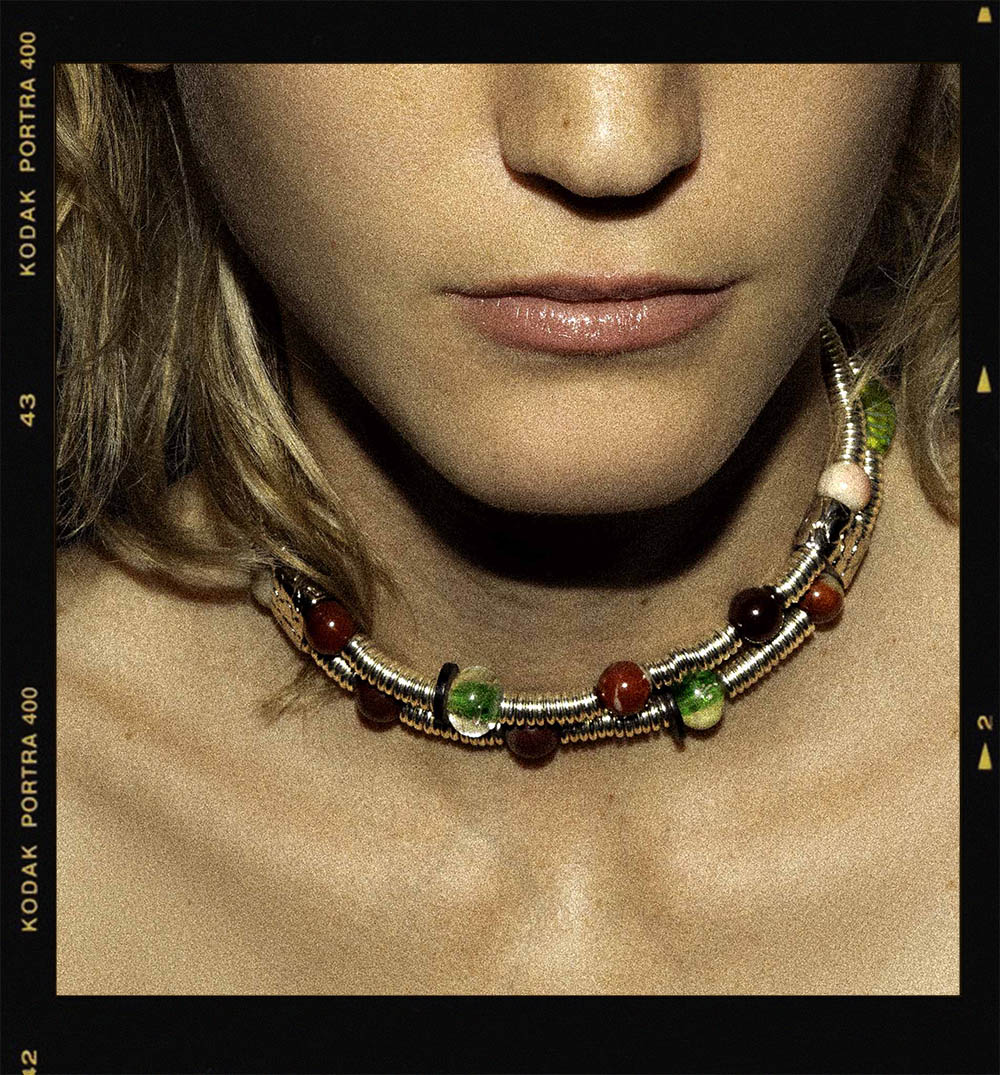
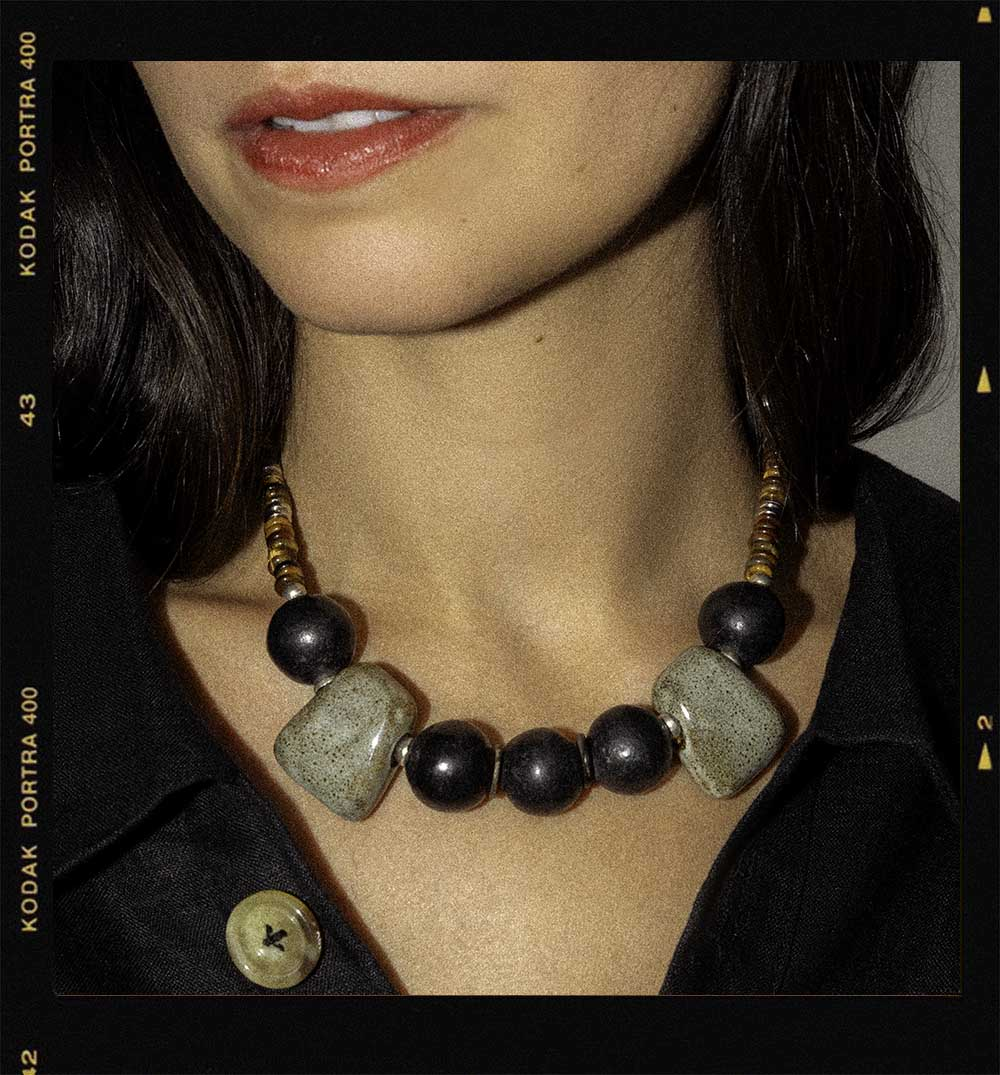
checkout: state select (MX/US); ui: polaroid scrollbar styles

diff --git a/components/category-grid.tsx b/components/category-grid.tsx
@@ -57,8 +57,9 @@ export function CategoryGrid() {
         const desiredTopMargin = marqueeHeight > 0 ? marqueeHeight + 60 : 140
         setContainerMarginTop(desiredTopMargin + manualOffset)
       } else {
-        const desiredTopMarginMobile = marqueeHeight > 0 ? marqueeHeight + 50 : 125
-        setContainerMarginTop(desiredTopMarginMobile + mobileOffset)
+        // Mobile: position polaroids ~30px below the marquee
+        const desiredTopMarginMobile = marqueeHeight > 0 ? marqueeHeight + 30 : 30
+        setContainerMarginTop(desiredTopMarginMobile)
       }
 
       // mobile / narrow: single-column large images
@@ -70,16 +71,20 @@ export function CategoryGrid() {
       const results = seed.map((s, i) => {
         // random small translations to make layout messy
         const tx = Math.round(Math.random() * 30 - 15) // -15..15
-        // move polaroids 60px upwards on desktop only (mobile unchanged)
-        const ty = isDesktop
+        // move polaroids 60px upwards on desktop only
+        // on mobile keep vertical jitter small and never move them up
+        // (ensure ty is at least +6px so top of frame isn't cropped)
+        const rawTy = isDesktop
           ? Math.round(Math.random() * 80 - 40) - 60
-          : Math.round(Math.random() * 100 - 40) - 80
+          : Math.round(Math.random() * 24 - 12)
+        const ty = isDesktop ? rawTy : Math.max(rawTy, 6)
         // Use a consistent width for all polaroids (no per-item randomness)
         // Increase size by 30% (0.3x bigger). Apply desktop-only scale so
-        // mobile sizing remains unchanged.
+        // mobile sizing remains unchanged, but shrink mobile images by 10%.
         const desktopScale = 0.8
         const sizeScale = isDesktop ? desktopScale : 1
-        const imgW = Math.max(160, Math.floor(baseImgW * 1.3 * sizeScale))
+        const mobileShrink = isDesktop ? 1 : 0.9 // make mobile images 10% smaller
+        const imgW = Math.max(160, Math.floor(baseImgW * 1.3 * sizeScale * mobileShrink))
         const zBase = s.zBase + Math.round(Math.random() * 6)
 
         // desktop-specific absolute positions (spread across width)
@@ -173,61 +178,88 @@ export function CategoryGrid() {
 
   return (
     <section className="py-12 md:py-16 px-4 md:px-6">
+      { /* determine render mode from computed layout so we can switch container classes */ }
+      {(() => {})()}
+      
+      {/* ensure we know whether layout computed desktop positions */}
+      
       <div
         ref={containerRef}
         className={
-          `relative grid grid-cols-1 gap-y-10 pb-24 pr-4 justify-items-center ${
-            layout[0]?.isDesktop ? 'min-h-[520px]' : ''
-          }`
+          (layout[0]?.isDesktop
+            ? `relative grid grid-cols-1 gap-y-10 pb-24 pr-4 justify-items-center ${layout[0]?.isDesktop ? 'min-h-[520px]' : ''}`
+            : `relative flex flex-row items-center overflow-x-auto pb-24 pr-4 gap-x-0 snap-x snap-mandatory touch-pan-x`) + ' polaroid-scroll'
         }
-        style={{ marginTop: `${containerMarginTop}px` }}
+            style={{ marginTop: `${containerMarginTop}px`, overflowY: 'visible', paddingTop: '36px', paddingBottom: '20px', zIndex: 50 }}
       >
         {images.map((src, i) => {
             const item = layout[i]
           const isHovered = hovered === i
           const zIndex = isHovered ? 999 : 10 + (item?.zBase ?? i)
 
+          // Desktop: absolute positioned images (unchanged)
+          if (item?.isDesktop) {
+            return (
+              <img
+                key={src}
+                src={src}
+                alt={`Editorial ${i + 1}`}
+                onMouseEnter={() => setHovered(i)}
+                onMouseLeave={() => setHovered(null)}
+                onClick={() => {
+                  if (i === 0) router.push('/new-in/3')
+                  if (i === 1) router.push('/new-in/2')
+                  if (i === 2) router.push('/new-in/10')
+                  if (i === 3) router.push('/new-in/9')
+                  if (i === 4) router.push('/new-in/1')
+                }}
+                className={`pointer-events-auto select-none rounded-sm transition-transform duration-300 ease-out ${i <= 4 ? 'cursor-pointer' : ''}`}
+                style={{
+                  position: 'absolute' as const,
+                  left: item.left + 'px',
+                  top: item.top + 'px',
+                  transform: `translate(-50%, -50%) rotate(${item.rotate}deg) ${isHovered ? 'scale(1.06)' : 'scale(1)'}`,
+                  zIndex,
+                  boxShadow: '8px 8px 30px rgba(0,0,0,0.16)',
+                  width: item ? `${item.imgW}px` : '320px',
+                  maxWidth: '40%',
+                  height: 'auto',
+                }}
+              />
+            )
+          }
+
+          // Mobile: wrap the image in a padded container so rotated frames are visible
           return (
-            <img
+            <div
               key={src}
-              src={src}
-              alt={`Editorial ${i + 1}`}
-              onMouseEnter={() => setHovered(i)}
-              onMouseLeave={() => setHovered(null)}
-              onClick={() => {
-                if (i === 0) router.push('/new-in/3')
-                if (i === 1) router.push('/new-in/2')
-                if (i === 2) router.push('/new-in/10')
-                if (i === 3) router.push('/new-in/9')
-                if (i === 4) router.push('/new-in/4')
-              }}
-              className={`pointer-events-auto select-none rounded-sm transition-transform duration-300 ease-out ${i <= 4 ? 'cursor-pointer' : ''}`}
-              style={
-                item?.isDesktop
-                  ? {
-                      position: 'absolute' as const,
-                      left: item.left + 'px',
-                      top: item.top + 'px',
-                      transform: `translate(-50%, -50%) rotate(${item.rotate}deg) ${isHovered ? 'scale(1.06)' : 'scale(1)'}`,
-                      zIndex,
-                      boxShadow: '8px 8px 30px rgba(0,0,0,0.16)',
-                      width: item ? `${item.imgW}px` : '320px',
-                      maxWidth: '40%',
-                      height: 'auto',
-                    }
-                  : {
-                      display: 'block',
-                      transform: `rotate(${item ? item.rotate : 0}deg) translate(${item ? item.tx : 0}px, ${item ? item.ty : 0}px) ${isHovered ? 'scale(1.06)' : 'scale(1)'}`,
-                      zIndex,
-                      boxShadow: '8px 8px 30px rgba(0,0,0,0.16)',
-                      width: item ? `${item.imgW}px` : '320px',
-                      maxWidth: '92%',
-                      height: 'auto',
-                      marginBottom: '-24px',
-                      marginLeft: '0px',
-                    }
-              }
-            />
+              className="flex-shrink-0 snap-center"
+              style={{ padding: '32px', overflow: 'visible', display: 'flex', alignItems: 'center', justifyContent: 'center', marginRight: (i === images.length - 1) ? '0px' : `-${Math.round((item?.imgW ?? 240) * 0.2)}px`, position: 'relative' as const, zIndex: 9999 }}
+            >
+              <img
+                src={src}
+                alt={`Editorial ${i + 1}`}
+                onMouseEnter={() => setHovered(i)}
+                onMouseLeave={() => setHovered(null)}
+                onClick={() => {
+                  if (i === 0) router.push('/new-in/3')
+                  if (i === 1) router.push('/new-in/2')
+                  if (i === 2) router.push('/new-in/10')
+                  if (i === 3) router.push('/new-in/9')
+                  if (i === 4) router.push('/new-in/1')
+                }}
+                className={`pointer-events-auto select-none rounded-sm transition-transform duration-300 ease-out ${i <= 4 ? 'cursor-pointer' : ''}`}
+                style={{
+                  display: 'block',
+                  transform: `rotate(${item ? item.rotate : 0}deg) translate(${item ? item.tx : 0}px, ${item ? item.ty : 0}px) ${isHovered ? 'scale(1.06)' : 'scale(1)'}`,
+                  zIndex: 10001,
+                  boxShadow: '8px 8px 30px rgba(0,0,0,0.16)',
+                  width: item ? `${item.imgW}px` : '320px',
+                  flex: '0 0 auto',
+                  height: 'auto',
+                }}
+              />
+            </div>
           )
         })}
       </div>

diff --git a/styles/globals.css b/styles/globals.css
@@ -182,3 +182,26 @@
 .click-invert.inverted {
   filter: invert(1);
 }
+
+/* Polaroid scroller: black scrollbar for better contrast */
+.polaroid-scroll {
+  /* Firefox: thumb, track */
+  scrollbar-color: #000 #000 !important;
+  scrollbar-width: thin !important;
+}
+.polaroid-scroll::-webkit-scrollbar {
+  height: 4px !important;
+  background: #000 !important;
+}
+.polaroid-scroll::-webkit-scrollbar-track {
+  background: #000 !important;
+}
+.polaroid-scroll::-webkit-scrollbar-thumb {
+  background-color: #000 !important;
+  border-radius: 9999px !important;
+  border: 2px solid transparent !important;
+  background-clip: padding-box !important;
+}
+.polaroid-scroll::-webkit-scrollbar-thumb:hover {
+  background-color: #111 !important;
+}

diff --git a/app/checkout/page.tsx b/app/checkout/page.tsx
@@ -40,6 +40,14 @@ const defaultForm: FormState = {
   emailOffers: false,
 }
 
+const MEX_STATES = [
+  'Aguascalientes','Baja California','Baja California Sur','Campeche','Chiapas','Chihuahua','Coahuila','Colima','Ciudad de México','Durango','Guanajuato','Guerrero','Hidalgo','Jalisco','Estado de México','Michoacán','Morelos','Nayarit','Nuevo León','Oaxaca','Puebla','Querétaro','Quintana Roo','San Luis Potosí','Sinaloa','Sonora','Tabasco','Tamaulipas','Tlaxcala','Veracruz','Yucatán','Zacatecas'
+]
+
+const US_STATES = [
+  'Alabama','Alaska','Arizona','Arkansas','California','Colorado','Connecticut','Delaware','District of Columbia','Florida','Georgia','Hawaii','Idaho','Illinois','Indiana','Iowa','Kansas','Kentucky','Louisiana','Maine','Maryland','Massachusetts','Michigan','Minnesota','Mississippi','Missouri','Montana','Nebraska','Nevada','New Hampshire','New Jersey','New Mexico','New York','North Carolina','North Dakota','Ohio','Oklahoma','Oregon','Pennsylvania','Rhode Island','South Carolina','South Dakota','Tennessee','Texas','Utah','Vermont','Virginia','Washington','West Virginia','Wisconsin','Wyoming'
+]
+
 function ExpressCheckoutBox({ children, onCheckout, label }: { children?: React.ReactNode; onCheckout?: () => Promise<void> | (() => void); label?: string }) {
   const [inverted, setInverted] = useState(false)
 
@@ -259,7 +267,11 @@ export default function CheckoutPage() {
                   <input value={form.apartment} onChange={(e) => update('apartment', e.target.value)} placeholder={t('apartmentOptional')} className="p-3 border rounded md:col-span-2 h-12" />
                   <input value={form.city} onChange={(e) => update('city', e.target.value)} placeholder={t('city')} className="p-3 border rounded h-12" />
                   <input value={form.postalCode} onChange={(e) => update('postalCode', e.target.value)} placeholder={t('postalCode')} className="p-3 border rounded h-12" />
-                  <input value={form.state} onChange={(e) => update('state', e.target.value)} placeholder={t('state')} className="p-3 border rounded h-12" />
+                  <select value={form.state} onChange={(e) => update('state', e.target.value)} className="p-3 border rounded h-12">
+                    {(form.country === 'US' ? US_STATES : MEX_STATES).map((s) => (
+                      <option key={s} value={s}>{s}</option>
+                    ))}
+                  </select>
                   <div className="grid grid-cols-[auto_1fr] gap-2 items-center">
                     <select value={form.phoneCountryCode} onChange={(e) => update('phoneCountryCode', e.target.value)} className="p-3 border rounded w-20 h-12 box-border">
                       <option value="+52">+52 MX</option>

diff --git a/app/page.tsx b/app/page.tsx
@@ -13,7 +13,7 @@ export default function Home() {
       <HeroSection />
       <CategoryGrid />
       <SplitScroll />
-      <div className="mt-[100px] relative overflow-hidden">
+      <div className="mt-[100px] relative md:overflow-hidden overflow-visible">
         <picture>
           <source media="(min-width: 1024px)" srcSet="/SCROLL/DSC07548_72y.jpg" />
           <img

diff --git a/app/s26/page.tsx b/app/s26/page.tsx
@@ -213,7 +213,7 @@ export default function S26Page() {
             </Link>
           </div>
 
-          <h1 className="mt-[40px] md:mt-0 text-xl md:text-2xl font-semibold mb-3 italic text-white text-center">{t('s26Collection')}</h1>
+          <h1 className="mt-[60px] md:mt-0 ml-[-5px] md:ml-0 text-xl md:text-2xl font-semibold mb-3 italic text-white text-center">{t('s26Collection')}</h1>
 
           <section>
             {/* Desktop: absolute-positioned canvas based on reference coordinates */}

diff --git a/components/hero-section.tsx b/components/hero-section.tsx
@@ -107,7 +107,7 @@ export function HeroSection() {
             style={{ transform: 'scale(1.15)', transformOrigin: 'center' }}
           />
         </div>
-        <div className="relative h-screen md:h-[100vh] overflow-hidden block">
+          <div className="relative h-screen md:h-[100vh] md:overflow-hidden overflow-visible block">
           {/* Background Image with parallax */}
           <div 
             className="absolute inset-0 md:inset-[-20px] transition-transform duration-300 ease-out"